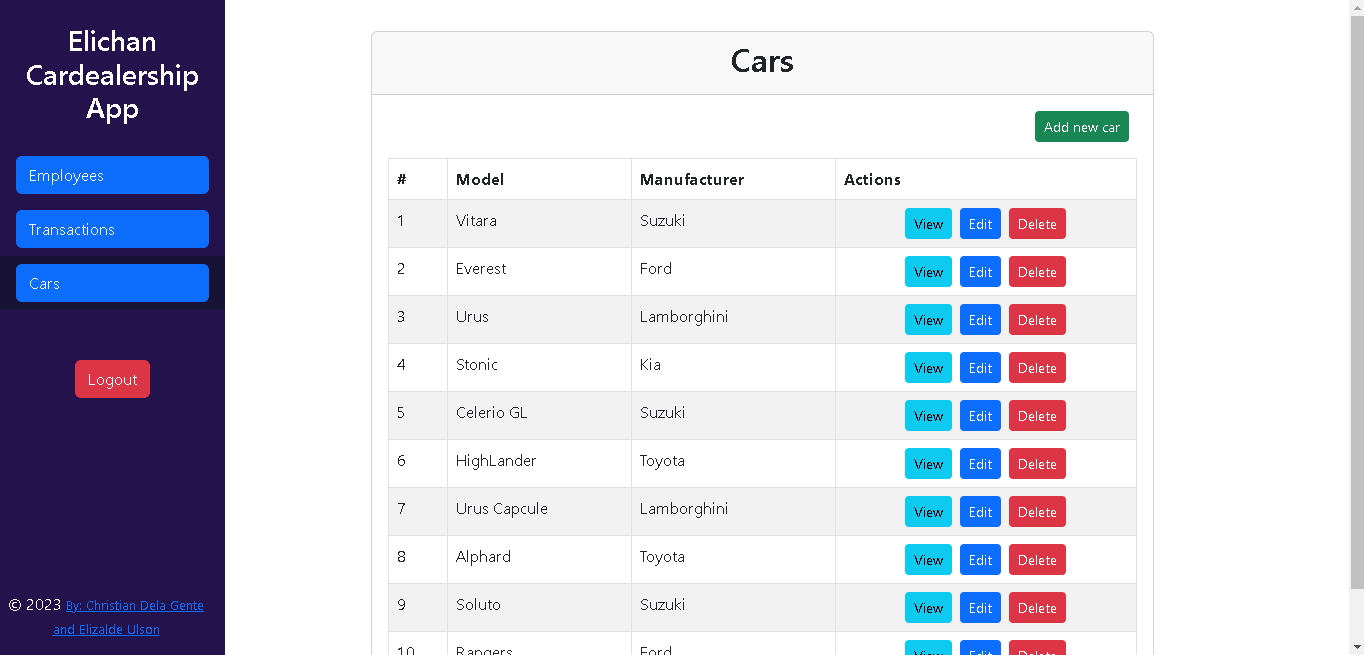
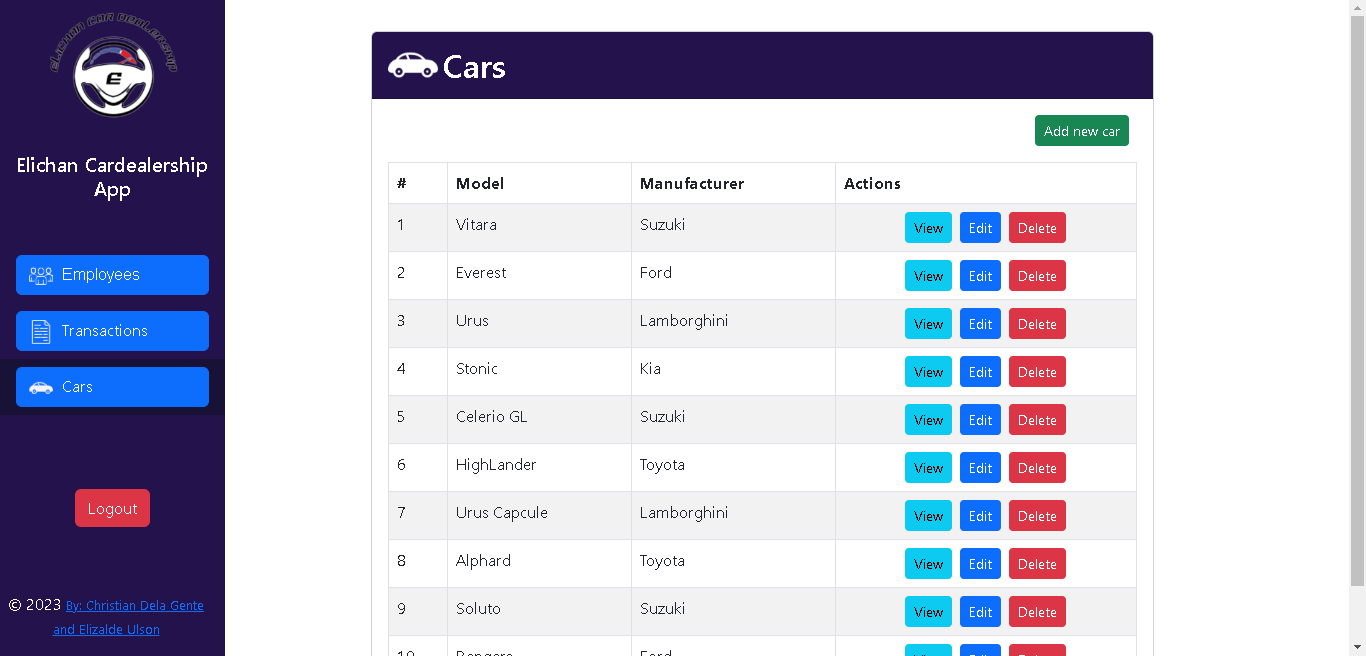
add GIF and update images

diff --git a/resources/views/layout/app.blade.php b/resources/views/layout/app.blade.php
@@ -86,7 +86,7 @@
         <div class="row">
             <div class="col-md-2 sidebar">
                 <a href="{{ route('homepage.index') }}" style="text-decoration: none; color: inherit; display: block; text-align: center;">
-                    <img src="logo.png" style="width: 70%; display: block; margin: 0 auto;">
+                    <img src="/logo.png" style="width: 70%; display: block; margin: 0 auto;">
                     <h3 class="text-center mt-4 mb-4">Elichan Cardealership App</h3>
                 </a>
                 <br>
@@ -94,7 +94,7 @@
                     <li class="nav-item">
                         <a class="nav-link {{ Request::is('employees*') ? 'active-link' : '' }}" href="{{ route('employees.index') }}" style="font-family: 'Arial', sans-serif; color: white; text-align: center;">
                             <button class="btn dashboard-btn btn-primary">
-                                <img src="employees.png" style="vertical-align: middle; margin-right: 5px;">
+                                <img src="/employees.png" style="vertical-align: middle; margin-right: 5px;">
                                 Employees
                             </button>
                         </a>
@@ -102,7 +102,7 @@
                     <li class="nav-item">
                         <a class="nav-link {{ Request::is('transactions*') ? 'active-link' : '' }}" href="{{ route('transactions.index') }}">
                             <button class="btn dashboard-btn btn-primary">
-                                <img src="transactions.png" style="vertical-align: middle; margin-right: 5px;">
+                                <img src="/transactions.png" style="vertical-align: middle; margin-right: 5px;">
                                 Transactions
                             </button>
                         </a>
@@ -110,7 +110,7 @@
                     <li class="nav-item">
                         <a class="nav-link {{ Request::is('cars*') ? 'active-link' : '' }}" href="{{ route('cars.index') }}">
                             <button class="btn dashboard-btn btn-primary">
-                                <img src="cars.png" style="vertical-align: middle; margin-right: 5px;">
+                                <img src="/cars.png" style="vertical-align: middle; margin-right: 5px;">
                                 Cars
                             </button>
                         </a>

diff --git a/resources/views/employees/show.blade.php b/resources/views/employees/show.blade.php
@@ -1,4 +1,4 @@
-@extends('layout.app')
+@extends('dashboard')
 @section('content')
     <div class="container">
         <div class="row">

diff --git a/resources/views/transactions/show.blade.php b/resources/views/transactions/show.blade.php
@@ -1,4 +1,4 @@
-@extends('layout.app')
+@extends('dashboard')
 @section('content')
     <div class="container">
         <div class="row">

diff --git a/resources/views/cars/show.blade.php b/resources/views/cars/show.blade.php
@@ -1,4 +1,4 @@
-@extends('layout.app')
+@extends('dashboard')
 
 @section('content')
     <div class="container">

diff --git a/README.md b/README.md
@@ -58,6 +58,11 @@
 
 <br> </br>
 
+![Elichan Cardealership App](public/img/Laravel-Elichan-Cardealership-App.gif)
+
+*The gif above shows the working project*
+
+<br> </br>
 
 # Installation
 
